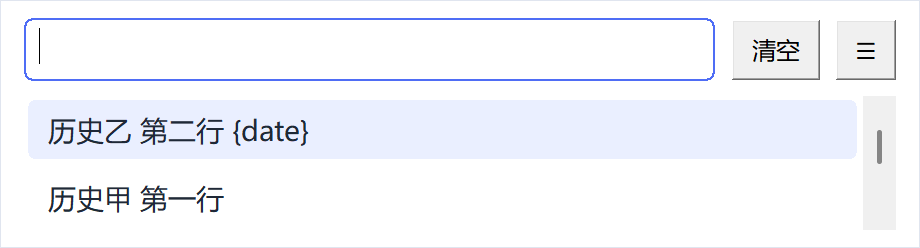
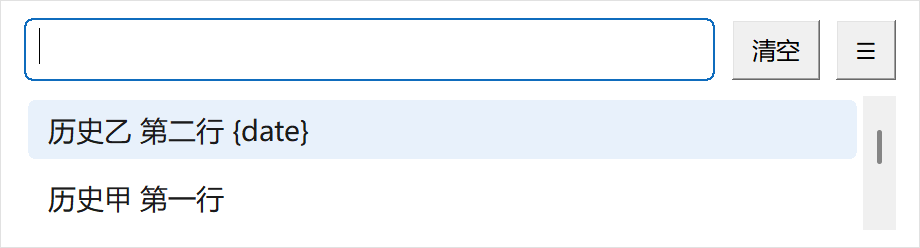
调整 Fluent 界面并修复 Explorer 菜单注入

diff --git a/crates/vibekey-win/src/inject.rs b/crates/vibekey-win/src/inject.rs
@@ -257,8 +257,9 @@ fn deliver(
 
     // The hook swallows Alt+<digit>, so the target window may have entered its
     // menu loop on WM_SYSKEYUP(VK_MENU); injected Ctrl+V/Enter would go to the
-    // menu instead of the document.
-    leave_menu_mode();
+    // menu instead of the document. A focus change during the bounded check
+    // cancels this job rather than typing into an unrelated window.
+    leave_menu_mode()?;
 
     // Check the window that will really receive the input: SetForegroundWindow
     // may have failed, leaving another (possibly elevated) window in front.
@@ -331,23 +332,25 @@ fn is_elevated(hwnd: HWND) -> Option<bool> {
     }
 }
 
-/// Whether the foreground window's thread is inside a menu loop.
-fn foreground_in_menu_mode() -> bool {
+/// Return the foreground window and its UI thread for one injection attempt.
+fn foreground_menu_thread() -> Option<(HWND, u32)> {
     // SAFETY: GetForegroundWindow has no preconditions.
     let foreground = unsafe { GetForegroundWindow() };
     if foreground.is_null() {
-        return false;
+        return None;
     }
     let mut process_id = 0u32;
     // SAFETY: process_id is a valid out pointer.
     let thread_id = unsafe { GetWindowThreadProcessId(foreground, &mut process_id) };
-    if thread_id == 0 {
-        return false;
-    }
+    (thread_id != 0).then_some((foreground, thread_id))
+}
+
+/// Whether a specific UI thread is inside a menu loop.
+fn in_menu_mode(thread_id: u32) -> bool {
     let mut info: GUITHREADINFO = unsafe { std::mem::zeroed() };
     info.cbSize = std::mem::size_of::<GUITHREADINFO>() as u32;
-    // SAFETY: info is initialised with its size and the thread id belongs to the
-    // foreground window's thread; GetGUIThreadInfo only reads.
+    // SAFETY: info is initialised with its size and the thread id was captured
+    // for this injection attempt; GetGUIThreadInfo only reads.
     (unsafe { GetGUIThreadInfo(thread_id, &mut info) }) != 0
         && info.flags & (GUI_INMENUMODE | GUI_POPUPMENUMODE) != 0
 }
@@ -357,19 +360,46 @@ fn foreground_in_menu_mode() -> bool {
 /// When the hook swallows Alt+<digit>, the target window only sees the Alt key
 /// down/up pair, so DefWindowProc enters its menu loop on WM_SYSKEYUP(VK_MENU).
 /// A paste or Enter would then be routed to the menu instead of the document.
-fn leave_menu_mode() {
-    // Let the target process the Alt key up first: the menu loop is entered by
-    // that message, so immediately after the physical release the target may
-    // still look like "no menu".
-    std::thread::sleep(Duration::from_millis(30));
-    if !foreground_in_menu_mode() {
-        return;
-    }
-    log::info!("target window is in menu mode; pressing Escape before injecting");
-    let _ = tap(VK_ESCAPE);
-    std::thread::sleep(Duration::from_millis(40));
-    if foreground_in_menu_mode() {
-        log::warn!("target window is still in menu mode after Escape");
+/// The target thread is pinned for the whole check: switching foreground must
+/// never close another application's menu or receive the pending text.
+fn leave_menu_mode() -> Result<(), String> {
+    const SETTLE_TIMEOUT: Duration = Duration::from_millis(150);
+    const ESCAPE_TIMEOUT: Duration = Duration::from_millis(250);
+    let Some((target, thread_id)) = foreground_menu_thread() else {
+        return Ok(());
+    };
+    let started = Instant::now();
+    let mut escape_sent_at: Option<Instant> = None;
+    loop {
+        // SAFETY: this only reads the current foreground handle.
+        let foreground = unsafe { GetForegroundWindow() };
+        if foreground != target {
+            return Err("目标窗口已切换，已取消本次输入".to_string());
+        }
+
+        if in_menu_mode(thread_id) {
+            if escape_sent_at.is_none() {
+                log::info!("target window is in menu mode; pressing Escape before injecting");
+                let _ = tap(VK_ESCAPE);
+                escape_sent_at = Some(Instant::now());
+            }
+            // Give the target a chance to process Escape, then require an
+            // explicit exit rather than assuming a fixed 30/40 ms delay worked.
+            std::thread::sleep(Duration::from_millis(40));
+            // Always return to the top of the loop after sleeping: every early
+            // return must re-check both foreground and menu state, including a
+            // menu flag that cleared merely because focus moved elsewhere.
+            continue;
+        } else if escape_sent_at.is_some() || started.elapsed() >= SETTLE_TIMEOUT {
+            // No menu appeared during the settle window, or Escape succeeded.
+            return Ok(());
+        }
+
+        if escape_sent_at.is_some_and(|sent| sent.elapsed() >= ESCAPE_TIMEOUT) {
+            log::warn!("target window is still in menu mode after Escape");
+            return Ok(());
+        }
+        std::thread::sleep(Duration::from_millis(10));
     }
 }
 

diff --git a/crates/vibekey-win/src/ui/settings.rs b/crates/vibekey-win/src/ui/settings.rs
@@ -1314,7 +1314,7 @@ fn layout_behavior_compact(c: &BehaviorControls, width: i32, height: i32) {
 fn layout_sync(state: &mut SettingsState, height: i32) {
     let c = &state.sync;
     let width = page_width(state, PAGE_SYNC);
-    if height < util::scale(480) {
+    if height < util::scale(450) {
         layout_sync_compact(c, width);
         return;
     }
@@ -1477,7 +1477,7 @@ fn layout_sync_compact(c: &SyncControls, width: i32) {
         width - m - util::scale(132),
         util::scale(144),
         util::scale(132),
-        util::scale(28),
+        util::scale(18),
     );
     move_window(
         c.interval_label,
@@ -1515,29 +1515,29 @@ fn layout_sync_compact(c: &SyncControls, width: i32) {
         m,
         util::scale(258),
         column,
-        util::scale(28),
+        util::scale(18),
     );
     move_window(
         c.clear_encryption_password,
         right,
         util::scale(258),
         column,
-        util::scale(28),
+        util::scale(18),
     );
     move_window(
         c.sync_on_change,
         m,
-        util::scale(266),
+        util::scale(278),
         inner,
-        util::scale(20),
+        util::scale(18),
     );
-    move_window(c.backup, m, util::scale(288), inner, util::scale(20));
+    move_window(c.backup, m, util::scale(298), inner, util::scale(18));
     move_window(
         c.certificate_fingerprint,
         m,
-        util::scale(312),
+        util::scale(320),
         inner,
-        util::scale(26),
+        util::scale(18),
     );
 }
 
@@ -2258,7 +2258,7 @@ fn paint_chrome(hwnd: HWND) {
             &brand,
             "Vibekey",
             theme::semibold_font(),
-            theme::TEXT_ON_DARK,
+            theme::TEXT,
             true,
         );
         let tagline = util::rect(
@@ -2272,7 +2272,7 @@ fn paint_chrome(hwnd: HWND) {
             &tagline,
             "输入，快人一步",
             theme::small_font(),
-            theme::rgb(157, 170, 198),
+            theme::TEXT_MUTED,
             true,
         );
         let footer = util::rect(
@@ -2289,7 +2289,7 @@ fn paint_chrome(hwnd: HWND) {
                 env!("CARGO_PKG_VERSION")
             ),
             theme::small_font(),
-            theme::rgb(157, 170, 198),
+            theme::TEXT_MUTED,
         );
         EndPaint(hwnd, &paint);
     }
@@ -2300,7 +2300,7 @@ unsafe fn draw_nav_button(state: &SettingsState, item: &DRAWITEMSTRUCT) {
     let active = selected_page == state.current_page;
     let pressed = item.itemState & ODS_SELECTED != 0;
     let background = if active {
-        theme::ACCENT
+        theme::ACCENT_SOFT
     } else if pressed {
         theme::SIDEBAR_HOVER
     } else {
@@ -2317,9 +2317,9 @@ unsafe fn draw_nav_button(state: &SettingsState, item: &DRAWITEMSTRUCT) {
         &text,
         theme::semibold_font(),
         if active {
-            theme::SURFACE
+            theme::TEXT
         } else {
-            theme::rgb(196, 205, 227)
+            theme::TEXT_MUTED
         },
         true,
     );
@@ -2330,7 +2330,7 @@ unsafe fn draw_nav_button(state: &SettingsState, item: &DRAWITEMSTRUCT) {
             item.rcItem.left + util::scale(3),
             item.rcItem.bottom - util::scale(10),
         );
-        theme::fill(item.hDC, &marker, theme::SURFACE);
+        theme::fill(item.hDC, &marker, theme::ACCENT);
     }
 }
 

diff --git a/crates/vibekey-win/src/ui/theme.rs b/crates/vibekey-win/src/ui/theme.rs
@@ -18,17 +18,16 @@ use windows_sys::Win32::UI::WindowsAndMessaging::{SendMessageW, WM_SETFONT};
 
 use crate::util::{scale, wide};
 
-pub const ACCENT: COLORREF = rgb(79, 109, 245);
-pub const ACCENT_DARK: COLORREF = rgb(57, 82, 199);
-pub const ACCENT_SOFT: COLORREF = rgb(234, 239, 255);
-pub const BACKGROUND: COLORREF = rgb(246, 248, 252);
+pub const ACCENT: COLORREF = rgb(15, 108, 189);
+pub const ACCENT_DARK: COLORREF = rgb(17, 94, 163);
+pub const ACCENT_SOFT: COLORREF = rgb(232, 241, 251);
+pub const BACKGROUND: COLORREF = rgb(245, 246, 248);
 pub const SURFACE: COLORREF = rgb(255, 255, 255);
-pub const SIDEBAR: COLORREF = rgb(24, 31, 50);
-pub const SIDEBAR_HOVER: COLORREF = rgb(37, 47, 73);
-pub const TEXT: COLORREF = rgb(31, 41, 55);
-pub const TEXT_MUTED: COLORREF = rgb(103, 115, 137);
-pub const TEXT_ON_DARK: COLORREF = rgb(240, 244, 255);
-pub const BORDER: COLORREF = rgb(224, 229, 239);
+pub const SIDEBAR: COLORREF = rgb(247, 247, 247);
+pub const SIDEBAR_HOVER: COLORREF = rgb(238, 238, 238);
+pub const TEXT: COLORREF = rgb(27, 27, 27);
+pub const TEXT_MUTED: COLORREF = rgb(97, 97, 97);
+pub const BORDER: COLORREF = rgb(225, 225, 225);
 
 /// Construct a Win32 COLORREF (0x00BBGGRR) from familiar RGB components.
 pub const fn rgb(red: u8, green: u8, blue: u8) -> COLORREF {
@@ -57,7 +56,7 @@ fn objects() -> &'static Objects {
                 body: create_font(14, FW_NORMAL, "Microsoft YaHei UI") as usize,
                 small: create_font(12, FW_NORMAL, "Microsoft YaHei UI") as usize,
                 semibold: create_font(14, FW_SEMIBOLD, "Microsoft YaHei UI") as usize,
-                title: create_font(23, FW_SEMIBOLD, "Microsoft YaHei UI") as usize,
+                title: create_font(20, FW_SEMIBOLD, "Microsoft YaHei UI") as usize,
                 mono: create_font(13, FW_NORMAL, "Consolas") as usize,
                 background: CreateSolidBrush(BACKGROUND) as usize,
                 surface: CreateSolidBrush(SURFACE) as usize,

diff --git a/crates/vibekey-win/src/hook.rs b/crates/vibekey-win/src/hook.rs
@@ -397,6 +397,8 @@ unsafe extern "system" fn keyboard_proc(code: i32, wparam: WPARAM, lparam: LPARA
         Binding::History => ACTION_HISTORY,
         Binding::Config => ACTION_CONFIG,
         Binding::Snippet(index) => {
+            #[cfg(debug_assertions)]
+            log::debug!("snippet hotkey matched index {index}, target {foreground:?}");
             shared.push_trigger(ACTION_SNIPPET, foreground);
             let index = index as isize;
             drop(config);

diff --git a/crates/vibekey-win/src/app.rs b/crates/vibekey-win/src/app.rs
@@ -479,6 +479,8 @@ impl App {
     /// The template is expanded on the inject worker thread, so the clipboard is
     /// only read by the thread that also owns the clipboard restore.
     pub fn inject_snippet(&mut self, index: usize, target: HWND) {
+        #[cfg(debug_assertions)]
+        log::debug!("inject_snippet called for index {index}, target {target:?}");
         let Some(snippet) = self.config.snippet.get(index) else {
             return;
         };

diff --git a/README.md b/README.md
@@ -12,6 +12,7 @@ Vibekey 是给“高频重复输入”准备的：自我介绍、邮箱、地址
 - **快捷键可配置**：默认 Alt+1 … Alt+0、Alt+-、Alt+= 共 12 个槽位；片段也可以不绑定快捷键，只在列表里出现。
 - **两种触发方式**：`immediate`（按下即触发）和 `hold`（Alt 必须先按住超过 `hold_ms` 毫秒才响应数字片段，减少误触；列表/菜单热键不受影响）。
 - **两种注入方式**：`paste`（剪贴板 + Ctrl+V，中文/Unicode 最稳，默认）和 `type`（SendInput 逐字符输入，适合不允许动剪贴板的程序）。启用剪贴板恢复时，如果剪贴板里是文件/图片/富文本，会自动改用逐字符输入，**不会破坏原剪贴板**。
+- **WinUI 3 风格浅色界面**：使用 WinUI 蓝色、Fluent 浅色导航、半粗标题和浅蓝选中态；仍由原生 Win32 绘制，不引入 WinUI 3 运行时，继续支持 Win7。
 - **紧凑半透明片段弹窗**：Alt+反引号打开，460 逻辑像素宽、最多 6 行，约 95% 不透明度；无标题和底栏，每项只显示一行，搜索栏右侧“☰”打开完整菜单。支持搜索、↑↓、Enter、单击和 Esc；F2 或右键立即编辑。
 - **文本剪贴板历史**：默认 Alt+V 打开，类似 Win+V 的搜索、选择和粘贴体验；保留最近 50 条，重复内容自动置顶，Delete 删除选中项，也可一键清空。历史仅保存在内存中，退出即清除，不写入磁盘，也不抢占系统 Win+V。
 - **图形化片段库**：新建、复制、删除、搜索片段，直接编辑名称、Alt 槽位、多行内容、回车和启用状态，并可一键插入模板变量。
@@ -185,6 +186,8 @@ text = "{clipboard}"
 2. 填写 WebDAV 文件 URL、用户名和登录密码。勾选「加密远端配置正文」，再填写至少 8 个字符的**独立同步加密密码**（不是复用上面的登录密码字段）。
 3. 点「测试连接」：如果远端已有加密配置，会同时验证密码和密文完整性；成功后保存。新机器需先勾选加密并填写同一同步密码，再执行首次同步。
 4. 保存后会立即同步一次；之后按 `interval_minutes` 定时同步，保存配置后也会同步（`sync_on_change`）。旧明文远端会迁移为密文；更换加密密码时会保留旧密码直至新密文和同步状态均保存成功，轮换未确认前需先同步、再换成其他新密码。
+
+![WinUI 3 风格同步设置](docs/screenshots/settings-sync.png)
 
 URL 必须指向**文件**（不是目录），常用写法：
 

diff --git a/docs/spec-win-app.md b/docs/spec-win-app.md
@@ -85,7 +85,10 @@ input_method、restore_clipboard。片段在工作线程展开；历史 expand_t
 2. 若目标 HWND 仍有效且不等于当前前台窗口，尝试 SetForegroundWindow（失败则继续用当前焦点，记录日志）。
 3. 检查目标进程权限：OpenProcess(PROCESS_QUERY_LIMITED_INFORMATION) 失败且 GetLastError=5 时视为管理员窗口，
    报告“无法向管理员权限窗口输入”，放弃。
-4. paste 模式：
+4. 菜单模式处理：Alt 松开后固定本次目标 HWND/UI thread，用 GUI_INMENUMODE/GUI_POPUPMENUMODE 做有界轮询（150ms 沉降窗口），
+   检测到菜单才发送一次 Esc，再从实际发送时起最多 250ms 确认退出，避免 Explorer 的菜单尚未进入就提前放行 Ctrl+V。
+   等待期间前台窗口变化必须取消本次输入，不得关闭其它窗口菜单或注入错误目标。不得无条件 Esc，以免取消地址栏编辑。
+5. paste 模式：
    - 先用 EnumClipboardFormats 检查：纯文本才保存 CF_UNICODETEXT 并粘贴；文件/图片/富文本时不要覆盖剪贴板，
      改为逐字符输入（实现：clipboard::inspect() → ClipboardContent::Rich 时回退 type 模式）。
    - OpenClipboard 重试 10 次、每次 10ms；EmptyClipboard；GlobalAlloc(GMEM_MOVEABLE) 写入 UTF-16（含结尾 0）；
@@ -96,9 +99,9 @@ input_method、restore_clipboard。片段在工作线程展开；历史 expand_t
    - 250ms 后恢复剪贴板文本（restore_clipboard 为 false 时跳过）。恢复必须在注入工作线程内串行执行，
      避免主线程 TIMER 与后续注入任务竞争导致恢复成片段文本；原始剪贴板为空时恢复为空。
    - 任何一步失败 → 回退到 type 模式。
-5. type 模式：对 UTF-16 code unit 逐个 SendInput(KEYEVENTF_UNICODE)，每 2ms 一个，每 200 个字符让出 5ms。
+6. type 模式：对 UTF-16 code unit 逐个 SendInput(KEYEVENTF_UNICODE)，每 2ms 一个，每 200 个字符让出 5ms。
    文本中的 \n 转换为 VK_RETURN 按下/抬起（KEYEVENTF_UNICODE 的 \n 在部分程序里无效）。
-6. 结果 PostMessage 主窗口 WM_APP_INJECT_DONE（wparam 0 成功 / 1 失败），失败原因写到 App 的 last_error。
+7. 结果 PostMessage 主窗口 WM_APP_INJECT_DONE（wparam 0 成功 / 1 失败），失败原因写到 App 的 last_error。
 
 所有 SendInput 前都要确认物理 Ctrl/Shift/Win 没被按住（等待 100ms，超时则强发）。
 

diff --git a/docs/design.md b/docs/design.md
@@ -81,7 +81,18 @@ LB_SETTOPINDEX=0，避免 ListBox 从第二行开始显示。透明效果使用 
 SetLayeredWindowAttributes，242/255 统一 Alpha；不支持时移除分层样式并保持不透明。这是半透明而非背景模糊。
 原生菜单通过 WM_APP_SHOW_MENU 排队，TrackPopupMenu 前后分别短借用 App，不在模态菜单期间保留 &mut App。
 
-### 4.3 内存文本剪贴板历史
+### 4.3 Fluent 视觉风格与菜单兼容
+
+界面采用 WinUI 3 风格的浅色 Fluent 配色，但不引入 WinUI 3/GPUI/DirectWrite：主色 #0F6CBD、按下 #115EA3、
+浅蓝选中 #E8F1FB，导航和正文使用近白背景与深色文本，页标题为 20px 半粗体。布局、DPI、Win7 API、单 exe 和
+弹窗 Alpha=242 保持不变；普通滚动条、复选框和编辑器仍使用原生控件，不承诺 Mica/Acrylic 或完整 WinUI 控件外观。
+
+Explorer 的 Alt 菜单循环进入时机不固定。注入不再只等待 30ms，而是固定本次目标 HWND/UI thread，在 150ms 沉降窗口内轮询
+GUI_INMENUMODE / GUI_POPUPMENUMODE，检测到菜单后发送一次 Esc，并从实际发送时起以最多 250ms 确认退出。
+这样避免菜单尚未进入就把 Ctrl+V 送到错误焦点，同时不无条件取消地址栏编辑。等待期间若前台窗口变化，取消本次输入，
+不关闭其它应用的菜单，也不把文本送给新前台。
+
+### 4.4 内存文本剪贴板历史
 
 Alt+V 与 Alt+反引号复用同一个紧凑选择器，默认不占用 Windows 10/11 的系统 Win+V；hotkeys.history 可在设置中修改。
 主窗口通过 AddClipboardFormatListener/WM_CLIPBOARDUPDATE 读取 CF_UNICODETEXT，保存最近 50 条，重复文本置顶，

diff --git a/AGENTS.md b/AGENTS.md
@@ -283,7 +283,7 @@ Win7 发布前再跑 3.2 的两个 target 构建 + PE 校验。CI 见 .github/wo
 
 ### P1：已知问题/可改进
 
-- [ ] 检查菜单模式检测的 30ms/40ms 沉降时序：可改成轮询 GUI_INMENUMODE 直到超时，减少极端时序漏判
+- [x] 菜单模式检测已改为固定目标线程、150ms 沉降 + Esc 后 250ms 有界轮询；前台变化取消注入。真实 Explorer 地址栏场景仍需人工复验
 - [ ] AttachThreadInput 失败时列表只能鼠标操作：可增加托盘气泡提示或在 show 后再次重试激活
 - [ ] App 严格别名 caveat（app.rs 顶部注释）：彻底修需要内部可变性 + 重入队列重构
 - [x] 设置窗口已加入“清除已保存密码”（2026-11-09；点击后仅在应用时清除，取消不影响原密码）
